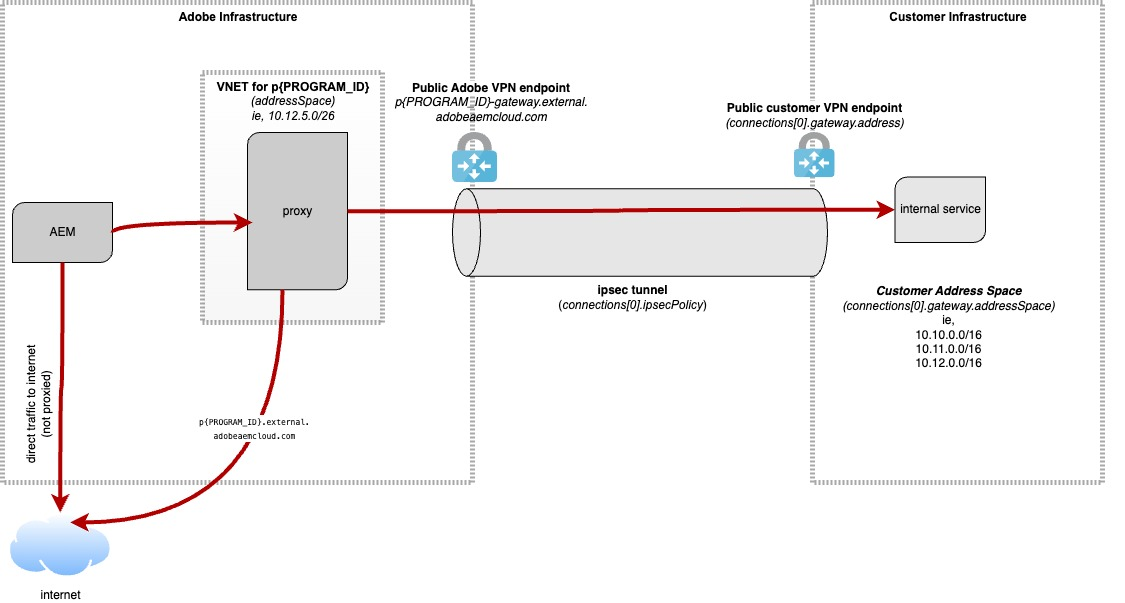
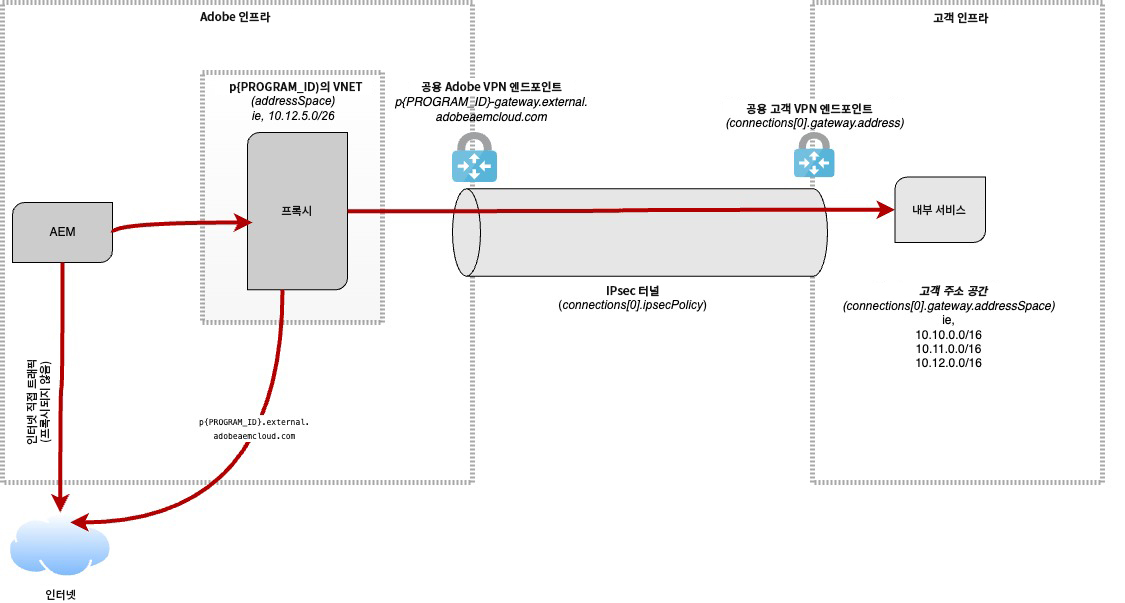
Updated by task 'AUTO_HANDOFF_PRIORITY_1731329210423'  Changes for core/source commit https://git.corp.adobe.com/AdobeDocs/experience-manager-cloud-service.en/commit/bba3b4a6c0786865051f4499f4f1725b1628ee58

diff --git a/help/implementing/cloud-manager/release-notes/current.md b/help/implementing/cloud-manager/release-notes/current.md
@@ -5,30 +5,30 @@ feature: Release Information
 role: Admin
 exl-id: 24d9fc6f-462d-417b-a728-c18157b23bbe
 source-git-commit: 87293526ca9c10a142bc1d1d3a35562b171da385
-workflow-type: tm+mt
+workflow-type: ht
 source-wordcount: '784'
-ht-degree: 30%
+ht-degree: 100%
 
 ---
 
 # Adobe Experience Manager as a Cloud Service의 Cloud Manager 2024.11.0 릴리스 정보 {#release-notes}
 
-AEM(Adobe Experience Manager as a Cloud Service)의 Cloud Manager 2024.11.0 릴리스에 대해 알아봅니다.
+AEM (Adobe Experience Manager) as a Cloud Service의 Cloud Manager 2024.11.0 릴리스에 대해 알아봅니다.
 
 >[!NOTE]
 >
 >[최신 Adobe Experience Manager as a Cloud Service 릴리스 정보](/help/release-notes/release-notes-cloud/release-notes-current.md)를 참조하십시오.
 
-## 릴리스 날짜 {#release-date}
+## 릴리스 일자 {#release-date}
 
-AEM as a Cloud Service의 Cloud Manager 2024.11.0 릴리스 날짜는 2024년 11월 7일입니다.
+AEM as a Cloud Service 2024.11.0의 Cloud Manager 릴리스 일자는 2024년 11월 7일입니다.
 
-다음 예정 릴리스는 2024년 12월 5일입니다.
+다음 릴리스는 2024년 12월 5일에 예정되어 있습니다.
 
 ## 새로운 기능 {#what-is-new}
 
-* 샌드박스 프로그램에서 살펴볼 수 있는 AEM Cloud Service-now를 통해 최신 Edge Delivery Services 혁신을 경험해 보십시오. [자세히 알아보기](/help/implementing/cloud-manager/getting-access-to-aem-in-cloud/introduction-sandbox-programs.md#auto-creation) <!-- (CMGR-62319) -->
-* 이제 AEM Cloud Manager의 도메인 설정 페이지에 이름별로 도메인을 빠르게 찾을 수 있는 검색 기능이 포함됩니다. 검색 필드에 키워드를 입력하여 일치하는 도메인을 필터링하고 표시할 수 있으므로 여러 도메인을 보다 쉽게 효율적으로 관리할 수 있습니다. 또한 페이지는 검색 결과를 더 세분화하기 위해 **확인됨** 및 **확인되지 않음**&#x200B;과 같은 상태 필터를 제공합니다. <!-- (CMGR-62615) -->
+* AEM Cloud Service를 통해 Edge Delivery Services의 최신 혁신을 경험해 보십시오. 지금 바로 샌드박스 프로그램에서 탐색할 수 있습니다. [자세히 알아보기](/help/implementing/cloud-manager/getting-access-to-aem-in-cloud/introduction-sandbox-programs.md#auto-creation) <!-- (CMGR-62319) -->
+* 이제 AEM Cloud Manager의 도메인 설정 페이지에 이름으로 도메인을 빠르게 찾을 수 있는 검색 기능이 포함됩니다. 검색 필드에 키워드를 입력하여 일치하는 도메인을 필터링하고 표시함으로써 여러 도메인을 효율적으로 관리할 수 있습니다. 또한 이 페이지에서는 **확인 완료** 및 **확인되지 않음**&#x200B;과 같은 상태 필터가 제공되어 검색 결과를 더욱 세분화할 수 있습니다. <!-- (CMGR-62615) -->
 
 ![도메인 설정의 검색 필드](/help/implementing/cloud-manager/assets/domain-settings-search.png)
 
@@ -38,20 +38,20 @@ Cloud Manager의 얼리 어답터 프로그램에 참여하여 향후 기능을 
 
 ### AEM 홈 {#aem-home}
 
-AEM 홈에서는 Adobe Experience Manager 내의 콘텐츠, 에셋 및 사이트 관리를 위한 중앙 집중식 시작점을 제공합니다. 개인화된 경험을 제공하도록 설계된 AEM Home을 사용하면 역할과 목표에 따라 AEM 에코시스템을 원활하게 탐색할 수 있습니다. 가이드 역할을 하여 목표를 효율적으로 달성하는 데 도움이 되는 주요 인사이트 및 권장 작업을 제공합니다. 명확한 사용자 중심의 레이아웃을 통해 AEM Home은 필수 도구에 빠르게 액세스하여 모든 AEM 기능에 대해 간소화되고 효과적인 경험을 제공합니다.
+AEM 홈은 Adobe Experience Manager 내에서 콘텐츠, 자산, 사이트를 관리하기 위한 중앙 집중식의 시작점을 제공합니다. 개인화된 경험을 제공하도록 설계된 AEM 홈을 사용하면 역할과 목표에 따라 AEM 에코시스템을 원활하게 탐색할 수 있습니다. AEM 홈은 안내서 역할을 하여 목표를 효율적으로 달성하는 데 도움이 되는 주요 인사이트와 추천 작업을 제공합니다. AEM 홈은 명확하고 개인화된 레이아웃을 통해 필수 도구에 빠르게 액세스할 수 있도록 보장하며, 모든 AEM 기능에서 간소화되고 효과적인 경험을 지원합니다.
 
-얼리어답터가 사용할 수 있는 AEM 홈은 워크플로 개선, 목표 우선 순위 지정 및 결과 전달에 초점을 맞춘 최적화된 경험을 제공합니다. 옵트인을 사용하면 AEM Home의 미래를 설정하고 전체 AEM 커뮤니티에 대한 가치를 높이는 데 도움이 되는 피드백을 제공하여 Home의 개발에 영향을 줄 수 있습니다.
+얼리 어답터에게 제공되는 AEM 홈은 워크플로 개선, 목표 우선순위 지정, 결과 제공에 중점을 둔 최적화된 환경을 제공합니다. 동참해 주십시오. 피드백을 제공하여 AEM 홈의 미래를 결정하고 전체 AEM 커뮤니티의 가치를 높이는 데 영향을 미칠 수 있습니다.
 
-이 새로운 기능을 테스트하고 피드백을 공유하려면 Adobe ID과 연결된 전자 메일 주소에서 [Grp-AemHome@adobe.com](mailto:Grp-AemHome@adobe.com)(으)로 전자 메일을 보내세요. 다음 정보를 포함해야 합니다.
+이 새로운 기능을 테스트하고 피드백을 공유하는 데 관심이 있으시면 Adobe ID와 연결된 이메일 주소로 [Grp-AemHome@adobe.com](mailto:Grp-AemHome@adobe.com)에 이메일을 보내 주십시오. 다음과 같은 정보를 포함해야 합니다.
 
-* 프로필에 가장 적합한 역할: 콘텐츠 작성자, 개발자, 비즈니스 소유자, 관리자 또는 기타(설명을 제공).
-* 기본 AEM 액세스 표면: AEM Sites, AEM Assets, AEM Forms, Cloud Manager 또는 기타(설명을 제공).
+* 귀하의 프로필에 가장 적합한 역할: 콘텐츠 작성자, 개발자, 비즈니스 소유자, 관리자 또는 기타(설명을 입력하십시오).
+* 기본 AEM 액세스 표면: AEM 사이트, AEM Sites, AEM Assets, AEM Forms, Cloud Manager 또는 기타(설명을 입력하십시오).
 
 ### 자체 Git 가져오기 - GitLab 및 Bitbucket 지원 포함 {#gitlab-bitbucket}
 
 <!-- BOTH CS & AMS -->
 
-**자체 Git 가져오기** 기능이 확장되어 GitLab 및 Bitbucket과 같은 외부 저장소에 대한 지원이 포함되었습니다. 이 새로운 지원은 기존에 제공되던 개인 및 기업용 GitHub 저장소에 대한 지원에 추가됩니다. 이러한 새로운 저장소를 추가하면 이를 파이프라인에 직접 연결할 수도 있습니다. 이러한 저장소를 공개 클라우드 플랫폼이나 비공개 클라우드 또는 인프라 내에 호스팅할 수 있습니다. 또한 이 통합을 통해 Adobe 저장소와 지속적으로 코드를 동기화할 필요 없으며 풀 요청을 메인 분기로 병합하기 전에 유효성 검사를 할 수 있는 기능이 제공됩니다.
+**자체 Git 가져오기** 기능이 확장되어 GitLab 및 Bitbucket과 같은 외부 저장소에 대한 지원이 포함되었습니다. 이 새로운 지원은 기존에 제공되던 개인 및 기업용 GitHub 저장소에 대한 지원에 추가됩니다. 이러한 새로운 저장소를 추가하면 이를 파이프라인에 직접 연결할 수도 있습니다. 이러한 저장소를 공개 클라우드 플랫폼이나 비공개 클라우드 또는 인프라 내에 호스팅할 수 있습니다. 또한 이 통합을 통해 Adobe 저장소와 지속적으로 코드를 동기화할 필요가 없으며 가져오기 요청을 메인 분기로 병합하기 전에 유효성 검사를 수행할 수 있는 기능이 제공됩니다.
 
 [Cloud Manager에서 외부 저장소 추가](/help/implementing/cloud-manager/managing-code/external-repositories.md)를 참조하십시오.
 
@@ -59,18 +59,18 @@ AEM 홈에서는 Adobe Experience Manager 내의 콘텐츠, 에셋 및 사이트
 
 >[!NOTE]
 >
->현재 기본 제공 풀 요청 코드 품질 검사는 GitHub 호스팅 저장소에만 적용되지만, 이 기능을 다른 Git 공급업체로 확장하기 위한 업데이트가 진행 중입니다.
+>현재 기본 제공 가져오기 요청 코드 품질 검사는 GitHub 호스팅 저장소에만 적용되지만, 이 기능을 다른 Git 공급업체로 확장하기 위한 업데이트가 진행 중입니다.
 
-이 새로운 기능을 테스트하고 피드백을 공유하는 데 관심이 있으시면 Adobe ID와 연결된 이메일 주소로 [Grp-CloudManager_BYOG@adobe.com](mailto:Grp-CloudManager_BYOG@adobe.com)에 이메일을 보내 주십시오. 사용할 Git 플랫폼과 개인/공용 또는 기업 저장소 구조를 포함해야 합니다. —>
+이 새로운 기능을 테스트하고 피드백을 공유하는 데 관심이 있으시면 Adobe ID와 연결된 이메일 주소로 [Grp-CloudManager_BYOG@adobe.com](mailto:Grp-CloudManager_BYOG@adobe.com)에 이메일을 보내 주십시오. 사용하려는 Git 플랫폼과 비공개/공개 또는 기업 저장소 구조인지 여부를 반드시 포함해야 합니다. -->
 
 
 ## 버그 수정
 
-* 최근 업데이트에서는 SonarQube에서 특정 경우에 하드 코딩된 암호가 검색되지 않는 문제를 해결했습니다. 이제 이 수정 사항에는 확장된 패턴 검사가 포함되어 있으며 SonarQube의 기본 감지 표준에 맞게 조정됩니다. <!-- CMGR-62682 -->
+* 최근 업데이트에서는 특정한 경우에서 하드코딩된 암호가 감지되지 않는 SonarQube의 문제가 해결되었습니다. 이제 이번 수정을 통해 확장된 패턴 검사가 포함되었으며, SonarQube의 기본 감지 표준과 일치합니다. <!-- CMGR-62682 -->
 * Cloud Manager에서 SSL 인증서를 업데이트하려고 할 때 **[!UICONTROL SSL 인증서 보기 및 업데이트]** 대화 상자에서 **[!UICONTROL 업데이트]**&#x200B;를 클릭하면 알 수 없는 오류가 표시됩니다. <!-- CMGR-62848 -->
-* Cloud Manager에서 도메인은 동일하지만 서신 대/소문자(대문자 또는 소문자)가 다른 경우에도 &quot;새 인증서가 기존 도메인과 일치하지 않습니다.&quot;라는 오류 메시지와 함께 SSL 인증서 업데이트가 실패합니다. 이제 업데이트는 도메인을 RFC 표준에 맞게 대소문자를 구분하지 않는 것으로 인식합니다. <!-- CMGR-62844 -->
-* Cloud Manager허용 목록에 추가하다 에서 도메인 구성에 대한 외래 키 링크가 누락되었기 때문에 IP 도메인 바인딩이 실행 중 상태로 남아 있었습니다. 허용 목록에 추가하다 이제 이 수정은 IP 도메인 바인딩 링크를 관련 도메인 구성에 올바르게 연결합니다. <!-- CMGR-62838 -->
-* Cloud Manager은 SSL 인증서의 OCSP(온라인 인증서 상태 프로토콜) 상태를 확인합니다. Adobe은 Cloud Manager을 통해 설치하기 전에 `openssl verify -untrusted intermediate.pem certificate.pem`과(와) 같은 도구를 사용하여 인증서의 무결성을 로컬에서 확인하는 것을 권장합니다. 자세한 내용은 [SSL 인증서 요구 사항 설명서](https://experienceleague.adobe.com/en/docs/experience-manager-cloud-service/content/implementing/using-cloud-manager/manage-ssl-certificates/introduction-to-ssl-certificates#requirements)를 참조하세요. <!-- CMGR-62341  -->
+* Cloud Manager에서 SSL 인증서 업데이트가 “새 인증서가 기존 도메인과 일치하지 않음” 오류로 인해 실패합니다. 이는 도메인이 동일하지만 대소문자(대문자 또는 소문자)에 차이가 있는 경우에도 마찬가지입니다. 업데이트 이후에는 RFC 표준에 맞춰 대소문자를 구분하지 않고 도메인을 인식합니다. <!-- CMGR-62844 -->
+* Cloud Manager에서 IP 허용 목록 바인딩은 도메인 구성에 대한 외래 키 링크가 없기 때문에 실행 중 상태로 고정되었습니다. 이 수정 사항을 통해 IP 허용 목록 바인딩이 연결된 도메인 구성에 올바르게 연결됩니다. <!-- CMGR-62838 -->
+* Cloud Manager는 SSL 인증서의 OCSP(온라인 인증서 상태 프로토콜) 상태를 검증합니다. Adobe에서는 Cloud Manager를 통해 인증서를 설치하기 전에 `openssl verify -untrusted intermediate.pem certificate.pem`와 같은 도구를 사용하여 로컬에서 인증서의 무결성을 검증할 것을 권장합니다. 자세한 내용은 [SSL 인증서 요구 사항 설명서](https://experienceleague.adobe.com/ko/docs/experience-manager-cloud-service/content/implementing/using-cloud-manager/manage-ssl-certificates/introduction-to-ssl-certificates#requirements)를 참조하십시오. <!-- CMGR-62341  -->
 
 
 
